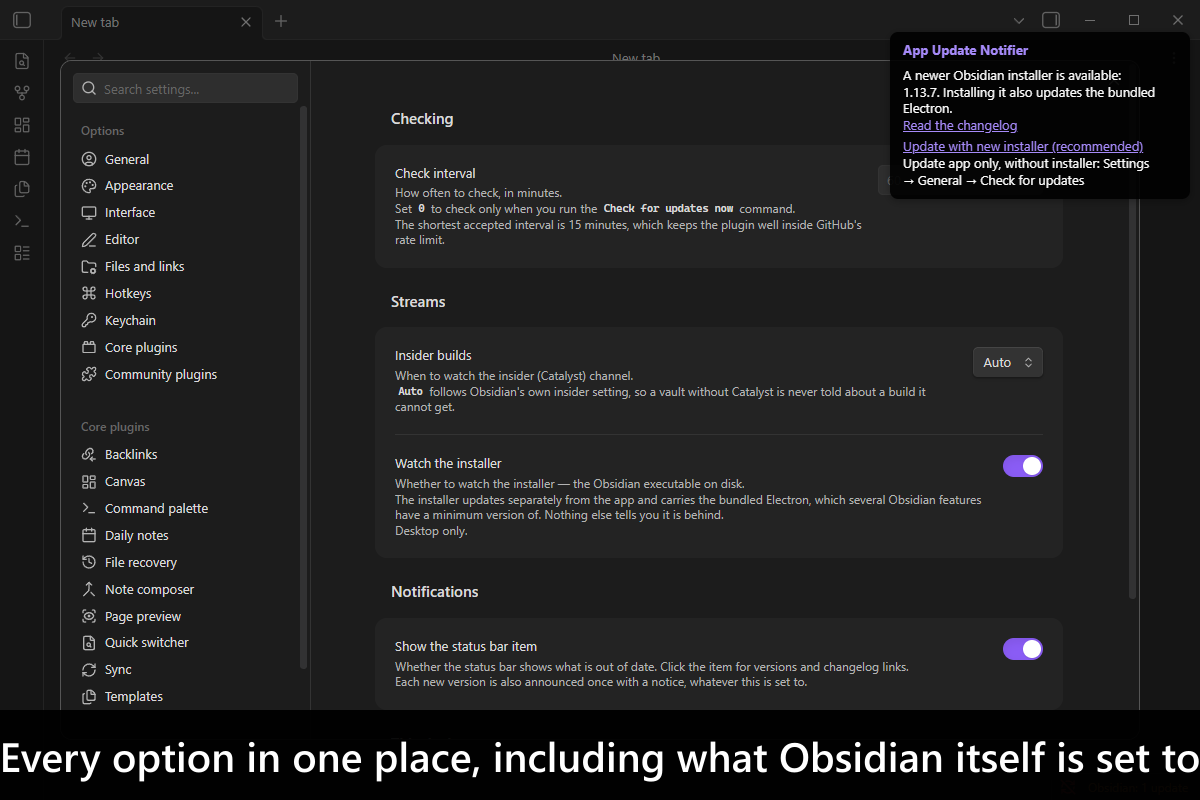
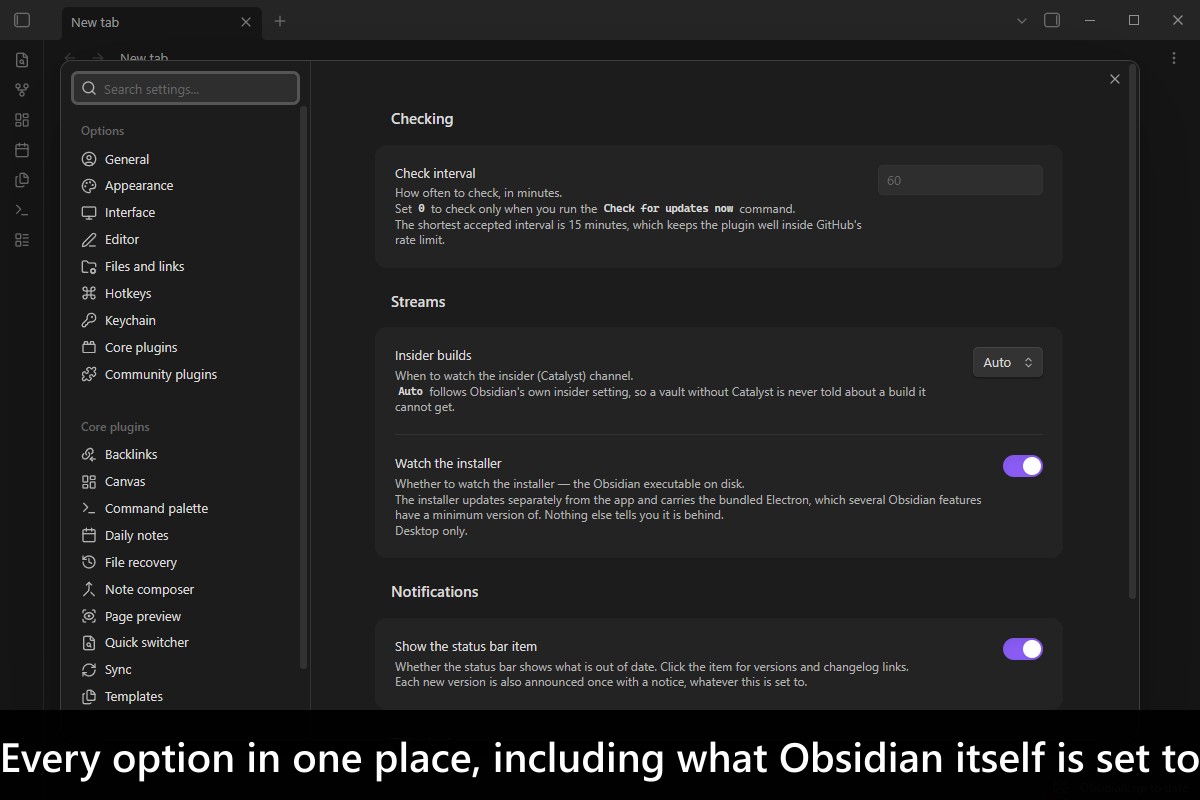
fix(test): stop the settings modal opening in its own window during capture
The first desktop store screenshot could not be captured: openSettingsTab waited
out its 20s for a `.setting-item-name` reading `Check interval` and found none,
which aborted `npm run capture:screenshots` before the Android leg ever ran.

`app.setting` is popout-capable. `shouldUsePopout()` returns
`app.vault.getConfig('settingsPopoutWindow')`, and Obsidian's own default config
sets that key to true -- identical in the shipped bundles of both 1.14.0 (what
the harness provisions) and 1.13.7, so this was never a version regression and
pinning an older Obsidian would not have helped. The branch runs whenever
`Platform.canPopoutWindow`, i.e. `isDesktopApp && isDesktop`: every desktop run,
no mobile one. It creates a second Electron window, reassigns the `activeWindow`
and `activeDocument` globals to it, and the base `Modal.open()` then appends
`getRootEl()` -- `modalEl`, for a popout -- into that window's document.

Measured in a real Obsidian: after `open()` the main document held exactly three
`.setting-item-name` rows, all of them the search sidebar's. Shot 2 always passed
because it calls `app.setting.close()` first, whose cleanup restores the globals.

A suite that only asserts can sidestep this by reading `settingTab.containerEl`,
an object reference wherever it lives. A screenshot cannot: the capture is of the
main window, so a popout yields a frame with no settings in it and no error to
say so.
[…]

diff --git a/src/screenshots.desktop-capture.integration.test.ts b/src/screenshots.desktop-capture.integration.test.ts
@@ -12,11 +12,27 @@
  * 2. The details panel — every watched stream, what is installed against what is published, and a
  *    changelog link for each, with the status bar item that opened it visible behind.
  *
- * **Opening the settings modal takes one extra step, and without it nothing renders.** `app.setting`
- * exists from startup but its `containerEl` is NOT in the document, and `open()` returns without
- * attaching it — so the modal builds into a detached tree and the captured document stays empty. Append
- * `containerEl` to `document.body` BEFORE calling `open()` and it renders normally. Attaching afterwards
- * is too late: the default tab has already been rendered into the detached container.
+ * **The settings modal must be told NOT to open in its own window, or the shot is of an empty one.**
+ * `app.setting` is popout-capable: its `shouldUsePopout()` returns `app.vault.getConfig('settingsPopoutWindow')`,
+ * which Obsidian's own default config sets to `true` (verified in the shipped bundles of both 1.13.7 and
+ * 1.14.0), and the popout branch is taken whenever `Platform.canPopoutWindow` — `isDesktopApp && isDesktop`,
+ * so on every desktop and no mobile. That branch creates a real second Electron window, reassigns the
+ * `activeWindow` / `activeDocument` globals to it, and the base `Modal.open()` then appends `getRootEl()`
+ * — `modalEl` for a popout — into THAT window's document. Measured 2026-09-03 (`T962-P41`): the main
+ * document was left holding three `.setting-item-name` rows, all of them the search sidebar's, so a wait
+ * for `Check interval` could only ever time out. `setConfig('settingsPopoutWindow', false)` before
+ * `open()` keeps the modal in the window `captureObsidianScreenshot` actually photographs.
+ *
+ * A settings test that only asserts can dodge this by querying `settingTab.containerEl` — an object
+ * reference, wherever it lives — the way `obsidian-advanced-note-composer`'s
+ * `settings-page-navigation.desktop.integration.test.ts` does. A screenshot cannot: the capture is of the
+ * main window, so a popout produces a frame with no settings in it and no error to say so.
+ *
+ * **`open()` attaches `containerEl` itself**, once the popout is off — measured in the same run, which
+ * went from `document.body.contains(containerEl) === false` before the call to `true` after it, with
+ * `modalEl` inside. An earlier version of this file pre-appended `containerEl` to `document.body` on the
+ * premise that `open()` returns without attaching; that premise does not hold for the Obsidian this
+ * harness provisions, and the pre-append is gone with it.
  *
  * There is deliberately no "an update is available" shot. Whether anything is behind depends on what
  * Obsidian has released this week and on the version the harness happens to boot, so such a frame could
@@ -50,15 +66,17 @@ interface DetailsProbe {
   readonly streamHeadings: string[];
 }
 
-/**
- * Obsidian's settings modal, reduced to the container `obsidian-typings` does not declare.
- */
-interface SettingsModalWithContainer {
-  containerEl: HTMLElement;
-}
-
 interface SettingsProbe {
   readonly settingNames: string[];
+}
+
+/**
+ * Obsidian's vault config, reduced to the one key `obsidian-typings` does not declare. Its `ConfigItem`
+ * union lists fifty keys and `settingsPopoutWindow` is not among them, so the call needs a cast until it
+ * is (`T970-P8`).
+ */
+interface VaultWithPopoutConfig {
+  setConfig(key: 'settingsPopoutWindow', shouldUsePopout: boolean): void;
 }
 
 const WIDTH_IN_PIXELS = 1200;
@@ -196,16 +214,13 @@ async function openSettingsTab(): Promise<SettingsProbe> {
       const SETTLE_DELAY_IN_MILLISECONDS = 1500;
 
       /*
-       * The one step that makes this work. `app.setting.containerEl` is built at startup but never
-       * attached, and `open()` does not attach it — so the modal renders into a detached tree and nothing
-       * reaches the captured document. Attaching afterwards is too late: the default tab has already been
-       * rendered into the detached container.
+       * The one step that makes this work, and it must come BEFORE `open()` — `shouldUsePopout()` is read
+       * inside the call. Left at Obsidian's default the settings go into a second Electron window, taking
+       * `activeWindow` / `activeDocument` with them, and this document never sees a row. The file header
+       * records the mechanism and what was measured.
        */
-      const settingsModal: unknown = app.setting;
-      const containerEl = (settingsModal as SettingsModalWithContainer).containerEl;
-      if (!document.body.contains(containerEl)) {
-        document.body.append(containerEl);
-      }
+      const vault: unknown = app.vault;
+      (vault as VaultWithPopoutConfig).setConfig('settingsPopoutWindow', false);
 
       app.setting.open();
       await sleep(OPEN_DELAY_IN_MILLISECONDS);

diff --git a/AGENTS.md b/AGENTS.md
@@ -17,3 +17,5 @@
 - **No `i18next`; English-only**, as the fleet's newer plugins are. A plugin that later needs translations reinstates `t` from `obsidian-dev-utils/obsidian/i18n/i18n` AND an `src/i18n/i18next.d.ts` augmenting `CustomTypeOptions`.
 - **No `evalInObsidian` closure in this repo may wait on a feed — the waiting happens in Node, via `pollInObsidian`.** A single closure is capped at roughly 30 seconds by whichever transport is driving it: Appium/chromedriver enforces the W3C script timeout and reports the failure as a bare `WebDriverError: script timeout` naming only `AppiumTransport.evaluate`, and the desktop CDP transport enforces its own `commandTimeoutInMilliseconds` (30s). A real check here costs four `requestUrl` feeds, one of them the 484-entry `changelog.json`, and a check that stalls for any reason — a cold emulator whose network is not up yet is the documented one — is killed by that cap before the test's own 90s wait can report anything. That is how the two cross-platform suites came to fail with an error naming only the harness, and to be diagnosed for a day as a broken emulator (`T796-P41`). Every integration suite therefore keeps its closures to milliseconds of DOM reading and lets `pollInObsidian`'s `start` / `poll` / `until` do the waiting from Node. The harness's own `waitForLayoutReady` is built the same way, for the same reason.
 - **A test that opens the details panel must first wait for a check to reach a real answer.** The panel renders whatever the last check resolved, so `executeCommandById('…:check-for-updates')` on an instance that has not finished one opens a modal with no streams in it — and nothing throws. Poll the status bar item until its text stops saying "not checked", THEN open the panel. This is not hypothetical: the Android capture suite, run against the harness's own freshly booted emulator, captured an empty panel and failed with `expected [] to include 'App'`, because on a cold AVD the device has no validated network for roughly its first 80 seconds (`T934-P2`) while every readiness signal the harness gates on has long since cleared. The failure is worse than a timeout — the test runs to completion against a silently empty result — so the wait is what makes the shot mean anything.
+- **A desktop test that opens `app.setting` must first turn `settingsPopoutWindow` off, or the settings render in a second Electron window.** `app.setting` is popout-capable: `shouldUsePopout()` returns `app.vault.getConfig('settingsPopoutWindow')`, and **Obsidian's own default config sets that key to `true`** — verified in the shipped bundles of both `obsidian-1.14.0.asar` (what the harness provisions) and 1.13.7, so it is a long-standing default rather than a new regression. The popout branch is taken whenever `Platform.canPopoutWindow`, i.e. `isDesktopApp && isDesktop` — every desktop run, no mobile one. It creates a real second window, reassigns the `activeWindow` / `activeDocument` globals to it, and the base `Modal.open()` then appends `getRootEl()` (`modalEl`, for a popout) into THAT window's document, leaving the main document with none of the settings UI. Measured 2026-09-03 (`T962-P41`): after `open()` the main document held three `.setting-item-name` rows, all of them the search sidebar's. A suite that only ASSERTS can sidestep this by reading `settingTab.containerEl` — an object reference, wherever it lives — but `screenshots.desktop-capture.integration.test.ts` cannot, because `captureObsidianScreenshot` photographs the main window and a popout yields a frame with no settings in it and no error to say so. The `setConfig` call needs a cast through a local `VaultWithPopoutConfig` interface, because `obsidian-typings`' `ConfigItem` union omits the key (`T970-P8`). The durable fix is a harness one — `obsidian-integration-testing` should write `settingsPopoutWindow: false` into the temp vault's `app.json` beside the `alwaysUpdateLinks` it already writes (`T969-P2`) — after which the local call and its cast come out.
+- **`app.setting.open()` attaches `containerEl` itself; do not pre-append it.** An earlier `screenshots.desktop-capture.integration.test.ts` appended `app.setting.containerEl` to `document.body` before calling `open()`, on the premise that `open()` returns without attaching and the modal would otherwise build into a detached tree. That premise does not hold for the Obsidian this harness provisions: measured in the same 2026-09-03 run, with the popout suppressed, `document.body.contains(containerEl)` went from `false` before the call to `true` after it, with `modalEl` inside — 1.14.0's `Modal.open()` does `activeWindow.document.body.appendChild(this.getRootEl())`, and the settings modal lazily appends `modalEl` into `containerEl` at open time. The pre-append and its `SettingsModalWithContainer` interface are gone. What actually broke the shot was the popout above, which the pre-append could never have fixed.
